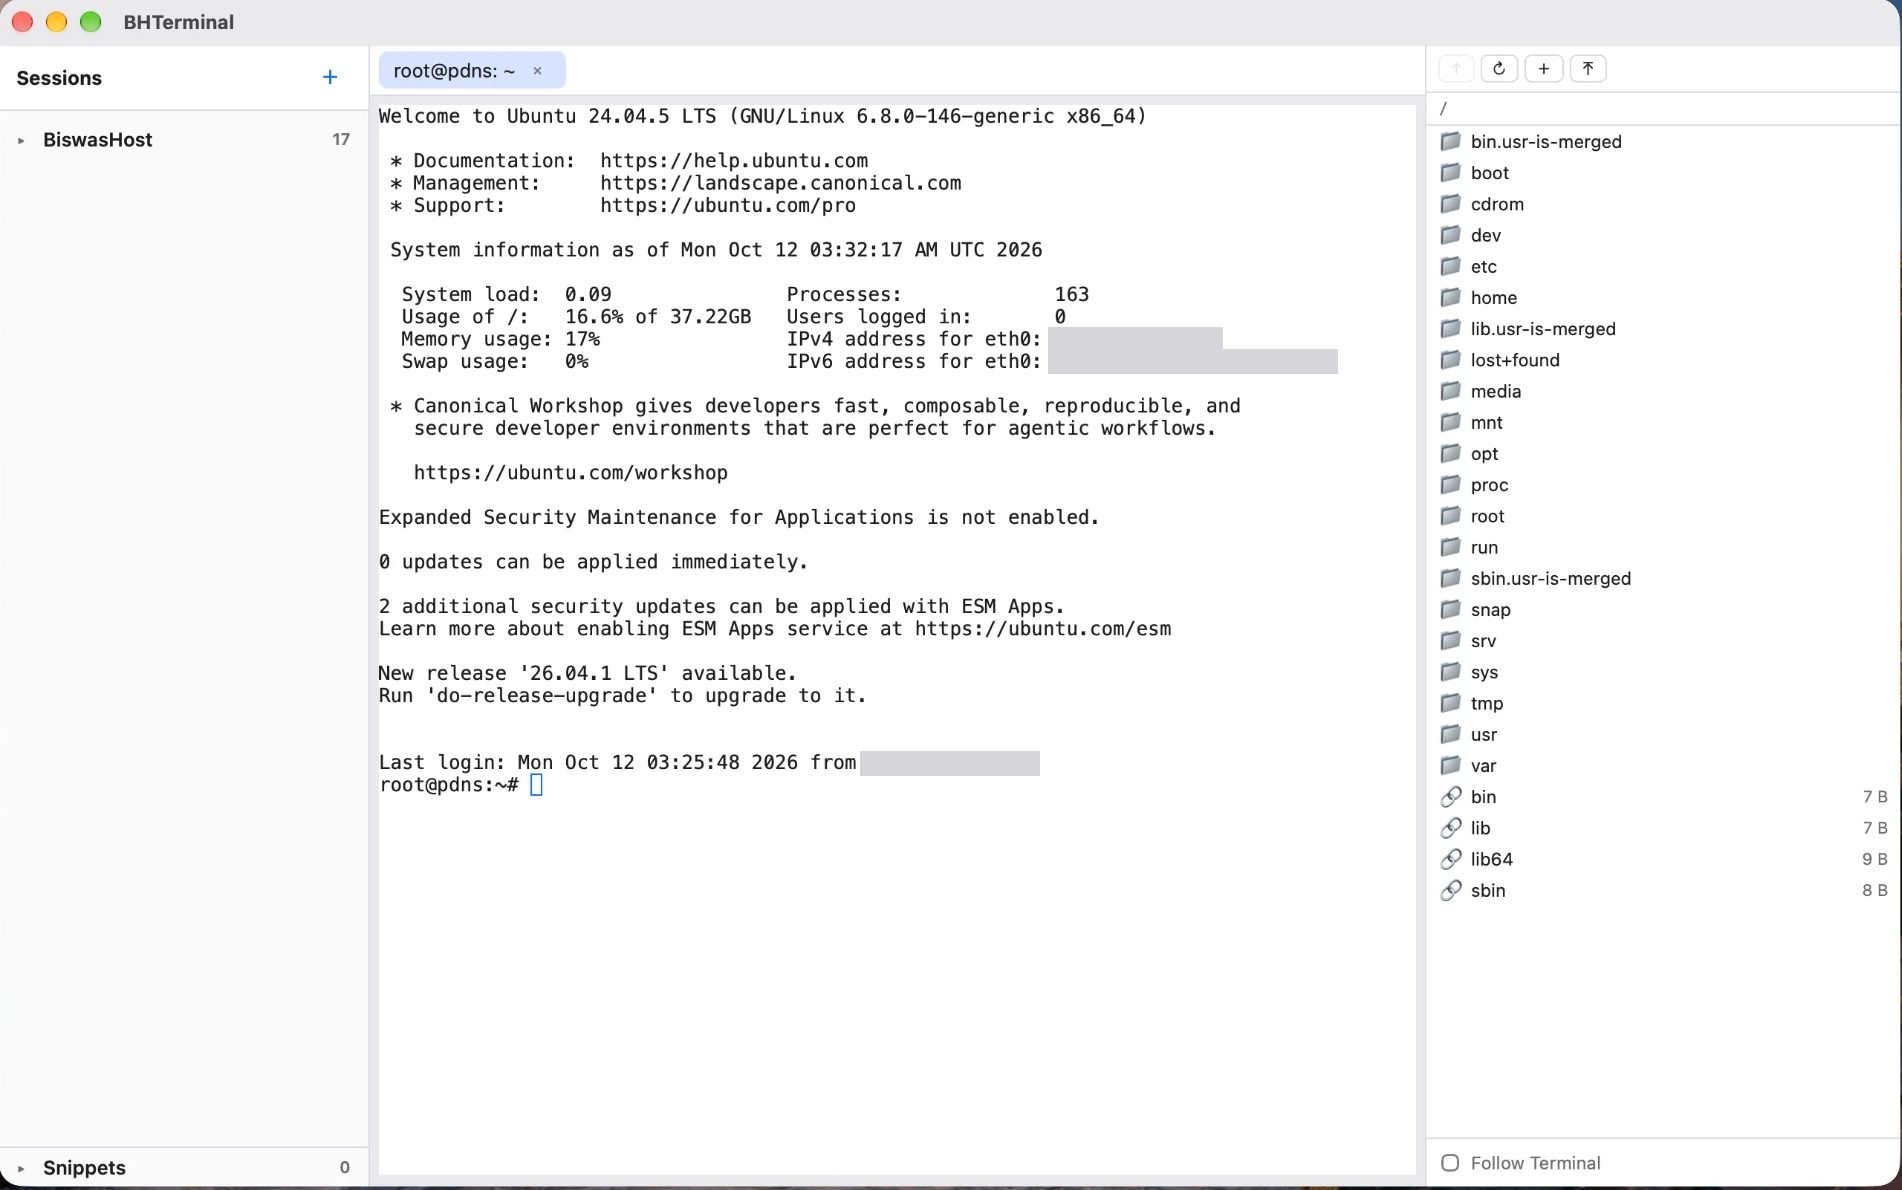
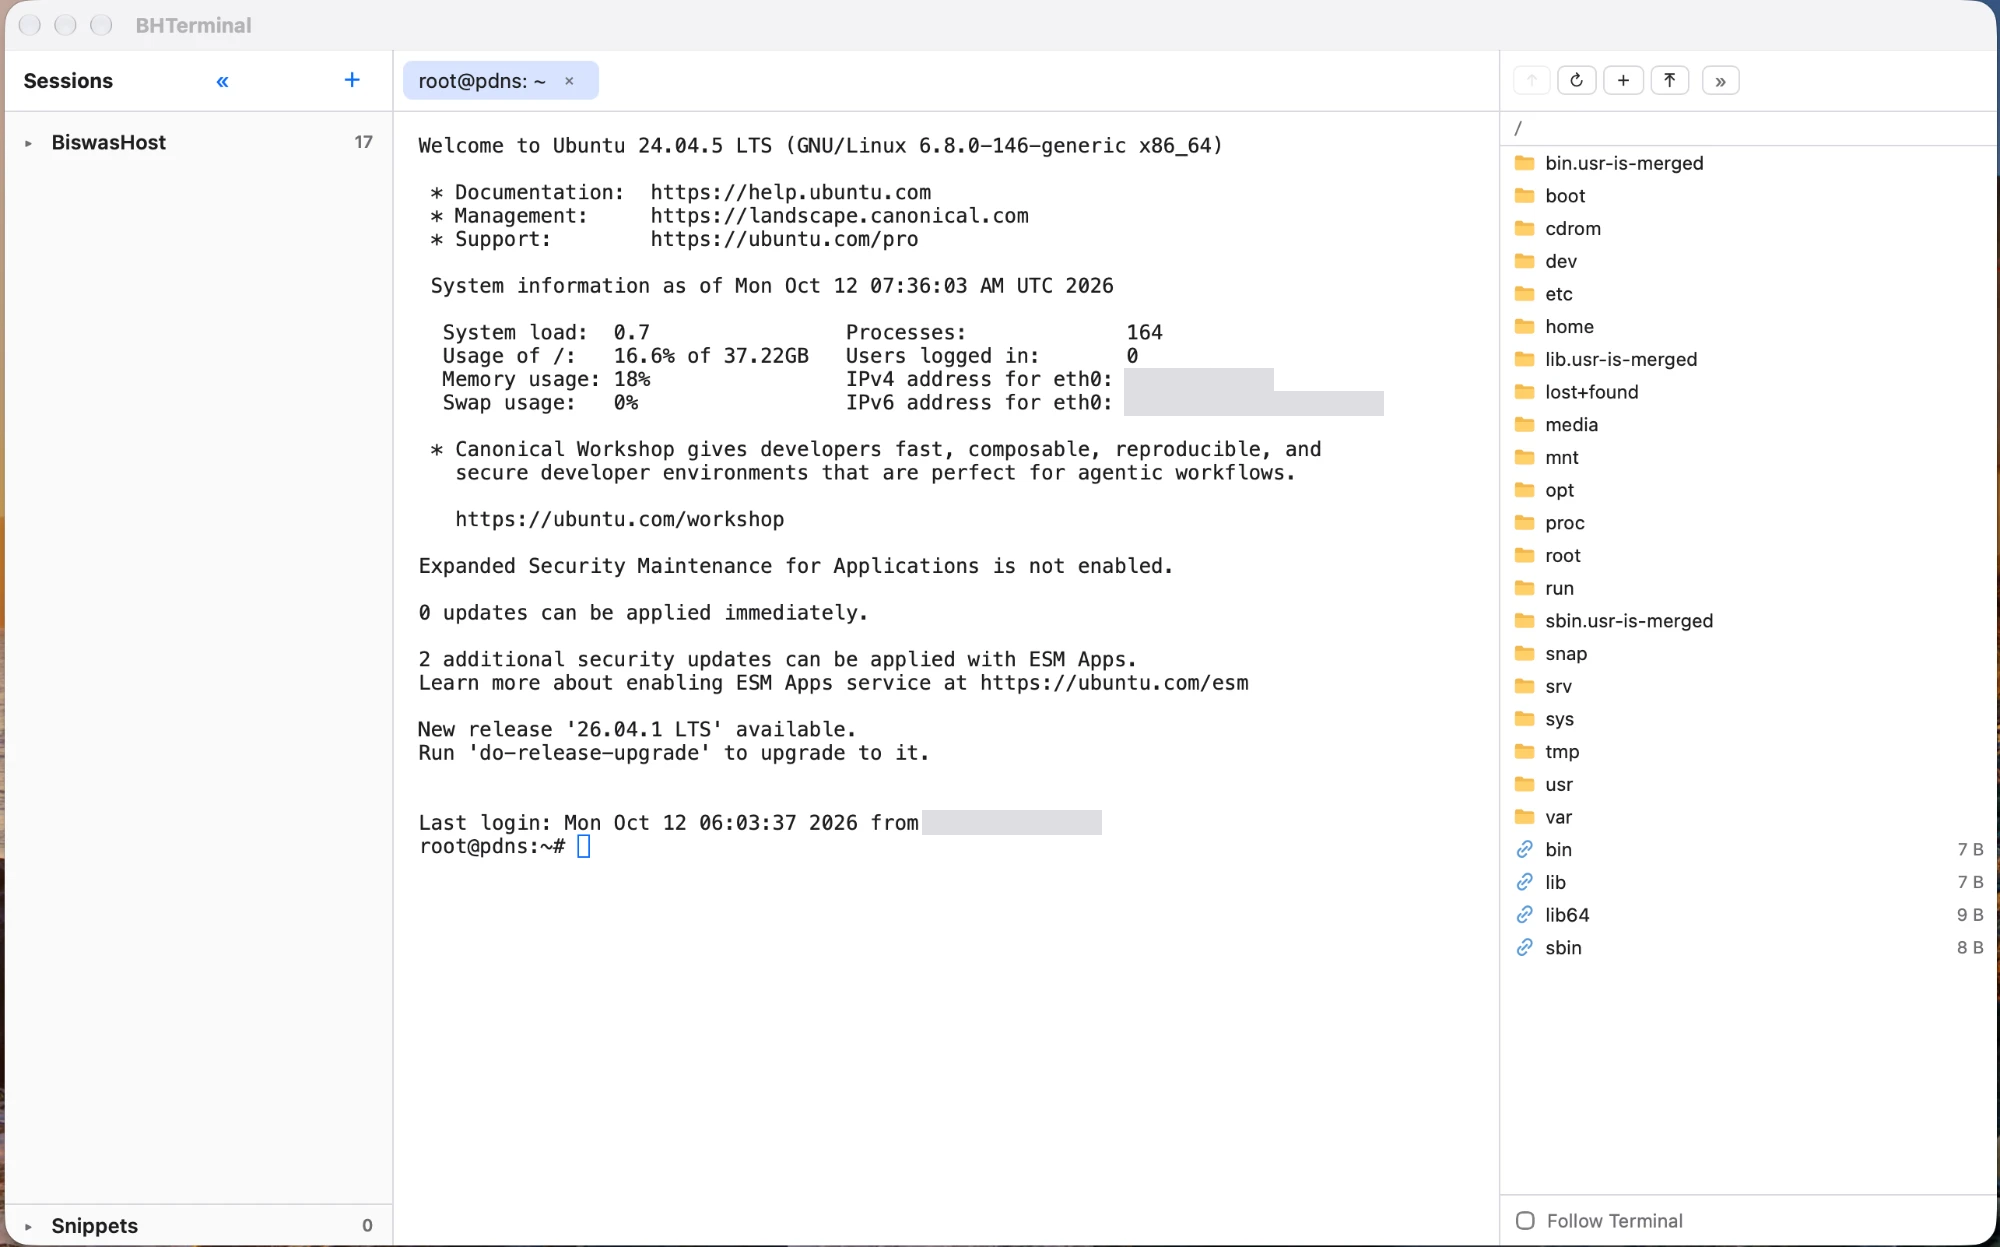
Update the screenshot to the current app
Taken on a live server with the aligned headers, the new terminal
padding and the collapsed sessions folder. Every address is masked —
both eth0 lines and the last-login address — and no host names are in
it.

diff --git a/README.md b/README.md
@@ -9,7 +9,7 @@
 <p align="center"><i>Built and maintained by <a href="https://www.biswashost.com">BiswasHost</a> 🇧🇩</i></p>
 
 <p align="center">
-  <img src="docs/images/bhterminal.png" alt="BHTerminal connected to an Ubuntu server: the session tree on the left, the terminal in the middle, and the SFTP file browser on the right — all in one tab" width="900">
+  <img src="docs/images/bhterminal.png" alt="BHTerminal connected to an Ubuntu server: the session tree on the left, the terminal in the middle, and the SFTP file browser on the right — all in one tab, with the headers aligned across the top" width="900">
 </p>
 
 ---
